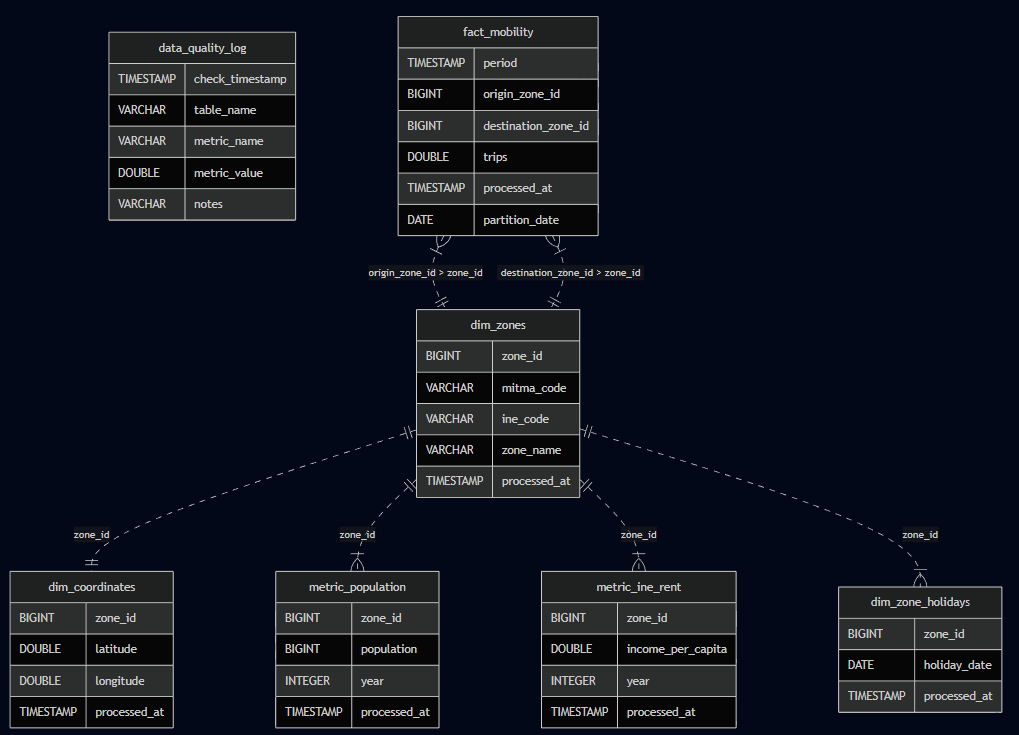
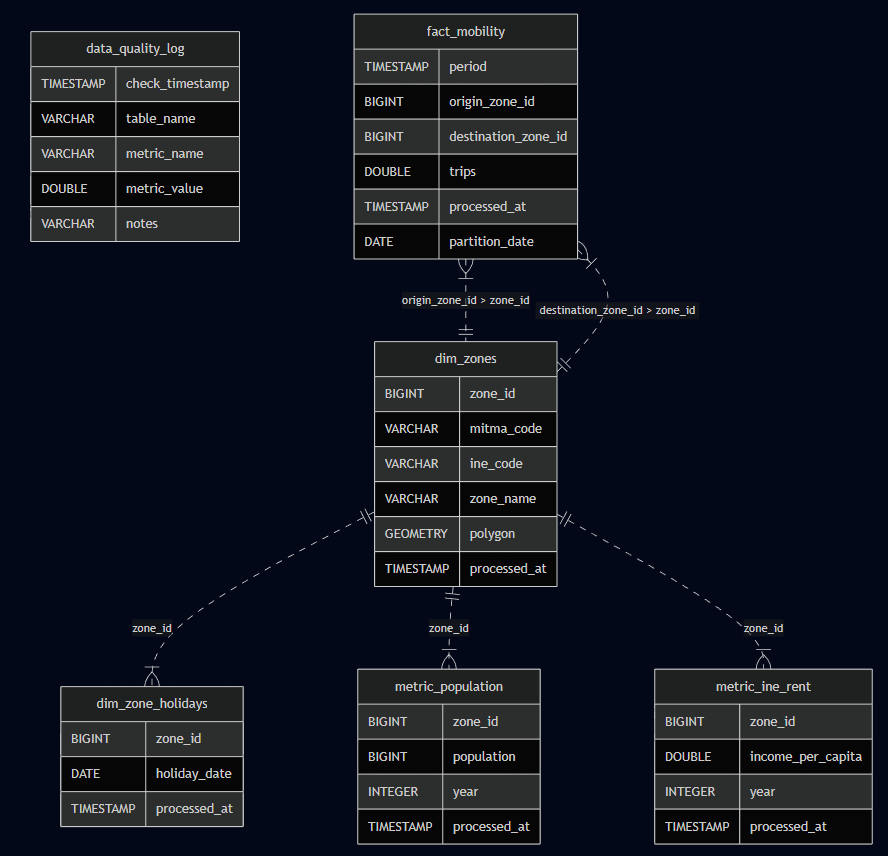
docs: new 3 layers for sprint 3

Changed region(s): [[0.0, 0.0, 1.0, 1.0], [0.0304, 0.0299, 0.3041, 0.2993], [0.152, 0.7184, 0.2128, 0.7483]]

diff --git a/docs/sprint_logs/Sprint-3.md b/docs/sprint_logs/Sprint-3.md
@@ -45,18 +45,19 @@ This section details the step-by-step implementation of the 3-tier lakehouse PoC
 
 ### 3.1. Bronze Layer Ingestion `(In process)`
 
-Finished in Sprint 2.
+New file added `mitma/municipios_coord.geojson` with the `POLYGONS`and `MULTIPOLYGONS` for each municipality from MITMA.
 
-**5. Schema:**
+**Schema:**
 - ![alt text](../diagrams/Sprint3/Bronze_Schema_diagramS3.png)
 ---
 
 ### 3.2. Silver Layer Transformation `(In process)`
 
-Modifications from Sprint 2:
-
 `fact_mobility`:
-- `date` and `period` (hour) columns removed. Now there is one only `TIMESTAMP WITH ZONE` column (`period_time`). `partition_date` = `date` (only for the partition storage).
+- `date` and `period` (hour) columns removed. Now there is one only `TIMESTAMP WITH ZONE` column (`period_time`). `partition_date` = `date` (only for the storage partition).
+
+`dim_zones`:
+- `polygon` column (Geometry) added to store the `POLYGONS`and `MULTIPOLYGONS` for each zone.
 
 `data_quality_logs`: Table to store data quality checks
 - `check_timestamp`: Time when the log was generated
@@ -66,17 +67,18 @@ Modifications from Sprint 2:
 - `notes`: Extra information needed for the metric
 
 
-**5. Schema:**
+**Schema:**
 - ![alt text](../diagrams/Sprint3/Silver_Schema_diagramS3.png)
 
 ---
 
 ### 3.3. Gold Layer Analytics `(In process)`
 
-Mofifications from Sprint 2
+`gold_infrastructure_gaps`
+- Calculation of distance from `st_point(origin.longitude, origin.latitude)` to `ST_Centroid(geometry_column)`.
 
 
-**5. Schema:**
+**Schema:**
 - ![alt text](../diagrams/Sprint3/Gold_Schema_diagramS3.png)
 
 ---
